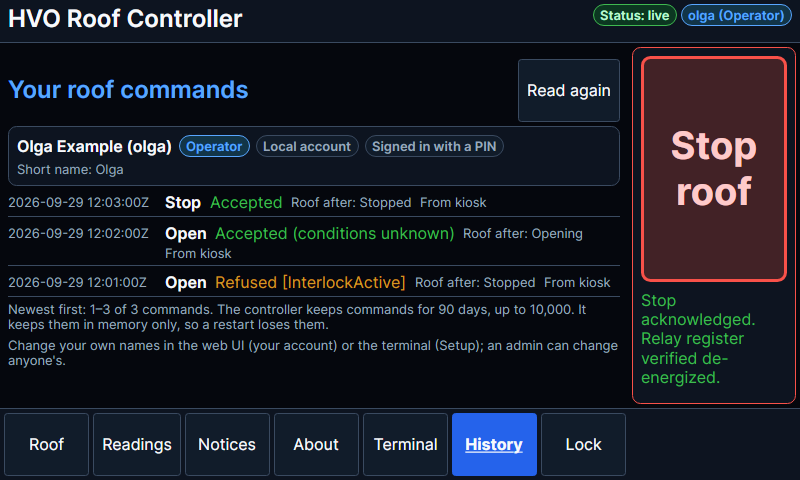
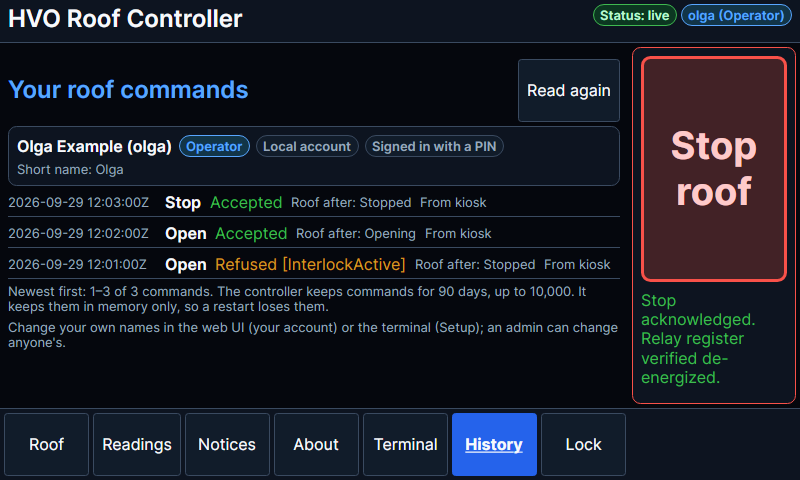
test(kiosk): History follows #219's result wording; regenerate its captures
After merging main (#219), an Open accepted with the interlock Off and no
sources is "Accepted" without "(conditions unknown)".

Changed region(s): [[0.0, 0.5, 0.7812, 0.7812], [0.3438, 0.4688, 0.75, 0.5]]

diff --git a/tests/HVO.RoofControllerV4.RPi.Tests/Kiosk/KioskPersonHistoryTests.cs b/tests/HVO.RoofControllerV4.RPi.Tests/Kiosk/KioskPersonHistoryTests.cs
@@ -158,7 +158,7 @@ public sealed class KioskPersonHistoryTests
             Texts(screen, "history-entry-0").Should().Equal(
                 RoofStatusText.Time(KioskHarness.Start.AddMinutes(3)), "Stop", "Accepted", "Roof after: Stopped", "From kiosk");
             Texts(screen, "history-entry-1").Should().Equal(
-                RoofStatusText.Time(KioskHarness.Start.AddMinutes(2)), "Open", "Accepted (conditions unknown)", "Roof after: Opening", "From kiosk");
+                RoofStatusText.Time(KioskHarness.Start.AddMinutes(2)), "Open", "Accepted", "Roof after: Opening", "From kiosk");
             ReadOnly(screen, "history-reload");
         });
         var shown = await ReadEveryPageAsync(screen, "history-pages");

diff --git a/docs/kiosk.md b/docs/kiosk.md
@@ -152,7 +152,7 @@ shows the person. Locking the kiosk hides History and forgets what it read, so t
 
 <p>
   <img src="images/kiosk/history-800x480.png" alt="History on the first 7-inch display: the unlocked person, read-only, and their recent roof commands, a refused Open in amber" width="400">
-  <img src="images/kiosk/history-1280x720.png" alt="History at 1280x720: the person and their newest commands, newest first, with page controls when the list overflows" width="480">
+  <img src="images/kiosk/history-1280x720.png" alt="History at 1280x720: the person, their commands newest first, how long the controller keeps them, and where names are changed" width="480">
 </p>
 
 ### Settings
